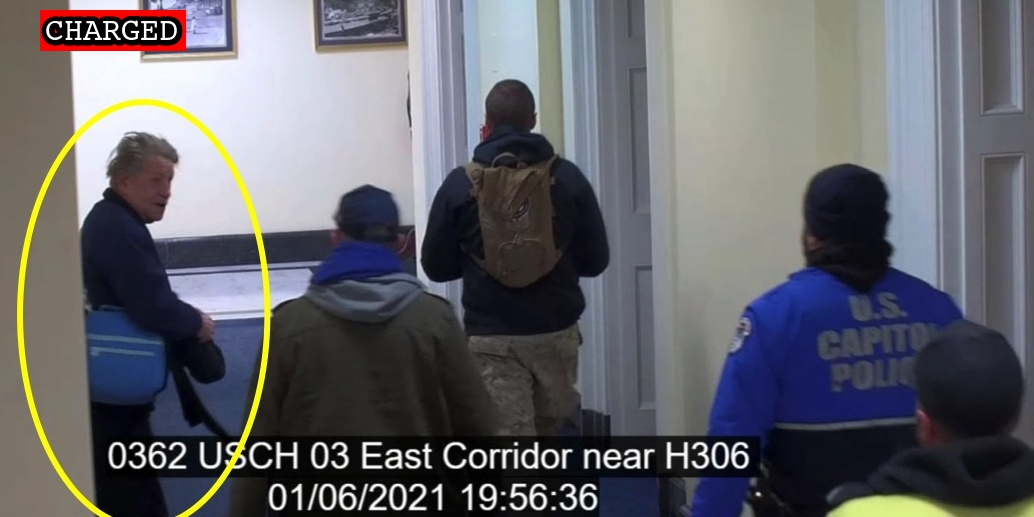
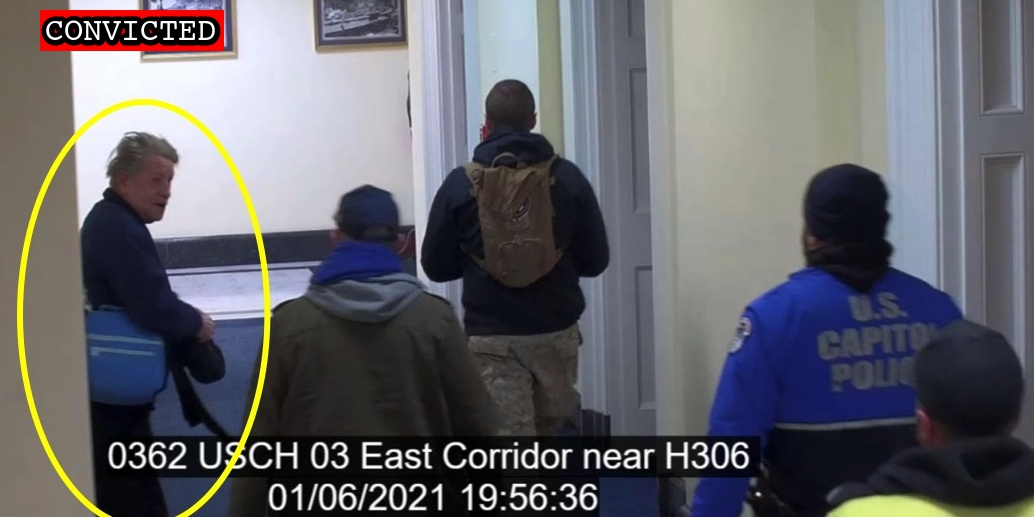
Latest import

Changed region(s): [[0.0619, 0.0, 0.2166, 0.1238]]

diff --git a/docs/_suspects/robert-snow.md b/docs/_suspects/robert-snow.md
@@ -4,15 +4,15 @@ lastName: Snow
 hashtag: 
 aka: Bob Snow
 residence: Arkansas
-status: Charged
+status: Convicted
 date: 2021-12-29
 charged: 2021-12-29
 indicted:
-convicted:
+convicted: 2022-03-24
 sentenced:
 dismissed:
 deceased:
-plea_hearing:
+plea_hearing: 2022-03-24
 sentencing:
 age: 78
 occupation:
@@ -34,7 +34,12 @@ published: true
 caseNumber: 1:21-mj-007
 videos:
 charges:
+- code: 18 USC § 5104(e)(2)(G)
+  title: Parading, demonstrating or picketing in a Capitol building
+  url: https://www.law.cornell.edu/uscode/text/40/5104
+  felony: false
 sentence:
 ---
 - [News Report](https://www.nwaonline.com/news/2022/jan/06/heber-springs-man-faces-federal-charges-in-2021/)
-- [Statement of Facts](https://www.justice.gov/usao-dc/case-multi-defendant/file/1481146/download)
+- [Statement of Facts](https://www.justice.gov/usao-dc/case-multi-defendant/file/1486936/download)
+- [Plea Agreement](https://www.justice.gov/usao-dc/case-multi-defendant/file/1486931/download)
